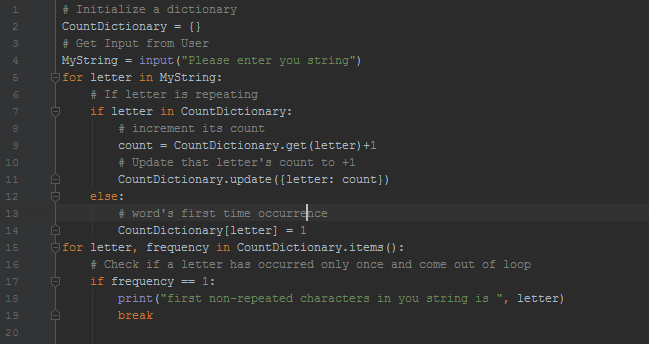
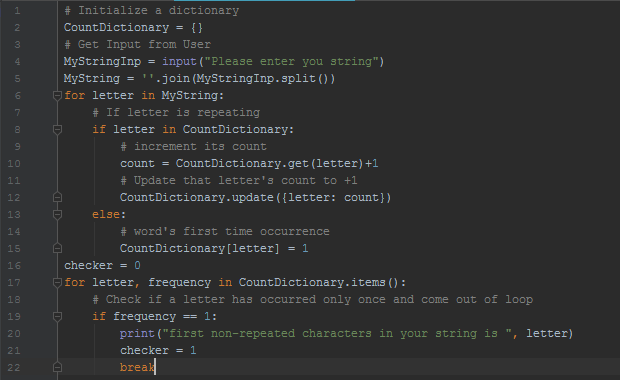
non repeat

diff --git a/Lab1/source/NonRepeating.py b/Lab1/source/NonRepeating.py
@@ -1,7 +1,8 @@
 # Initialize a dictionary
 CountDictionary = {}
 # Get Input from User
-MyString = input("Please enter you string")
+MyStringInp = input("Please enter you string")
+MyString = ''.join(MyStringInp.split())
 for letter in MyString:
     # If letter is repeating
     if letter in CountDictionary:
@@ -12,9 +13,14 @@ for letter in MyString:
     else:
         # word's first time occurrence
         CountDictionary[letter] = 1
+checker = 0
 for letter, frequency in CountDictionary.items():
     # Check if a letter has occurred only once and come out of loop
     if frequency == 1:
-        print("first non-repeated characters in you string is ", letter)
+        print("first non-repeated characters in your string is ", letter)
+        checker = 1
         break
+
+if checker == 0:
+    print("There are no non-repeated characters in your string")
 
